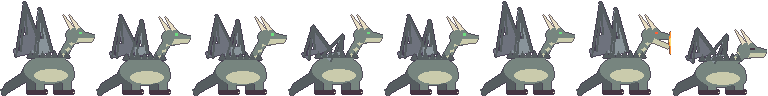
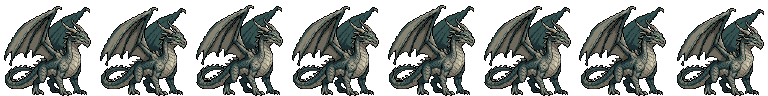
소내섬 용 · 독꼬리 와이번을 SpriteCook 새 그림으로
용은 키 90px (96칸), 와이번은 날개 폭 46px (64칸, 날갯짓 · 내려꽂기 · 내려앉기 칸).

Claude-Session: https://claude.ai/code/session_01WQSXi4yLn8qERYYsrTbZQR

diff --git a/tools/import_pixellab_monster.py b/tools/import_pixellab_monster.py
@@ -27,6 +27,11 @@ import_ai_monster.py 는 큰 AI 그림을 줄여서 픽셀로 만든다. PixelLa
 아기 도마뱀 (2026-10-05, SpriteCook generate_game_art 4장 중 사용자가 3번 = baby_02 를 고름, 족장 그림을 화풍 참고로):
   python3 tools/import_pixellab_monster.py baby_02.png --out baby_lizard --height 20 --cell 32 --baby
   그림 원본: /mnt/project-files/design/guiyeo-tall/spritecook/baby_*.png
+
+소내섬 용 · 독꼬리 와이번 (2026-10-05, SpriteCook generate_game_art 2장씩, 기본값 1번):
+  python3 tools/import_pixellab_monster.py dragon_00.png --out wild_dragon --height 90 --cell 96
+  python3 tools/import_pixellab_monster.py wyvern_00.png --out wild_wyvern --wyvern --width 46 --cell 64
+  그림 원본: /mnt/project-files/design/sonae-tall/spritecook/
 """
 import argparse
 from pathlib import Path
@@ -181,6 +186,38 @@ def build_baby(img):
     return frames
 
 
+def fold(img, cut, k):
+    """cut 줄 위 (날개) 를 k 배 높이로 눌러 cut 에 붙인다 (날갯짓 · 날개 접기)."""
+    w, h = img.size
+    top = img.crop((0, 0, w, cut))
+    nh = max(1, round(cut * k))
+    out = Image.new("RGBA", img.size, (0, 0, 0, 0))
+    out.alpha_composite(img.crop((0, cut, w, h)), (0, cut))
+    out.alpha_composite(top.resize((w, nh), Image.NEAREST), (0, cut - nh))
+    return out
+
+
+def build_wyvern(img, cell, air=8):
+    """나는 와이번 8칸 (make_act5_sheets.wyvern 과 같은 뜻):
+    0-1 맴돌기, 2-5 날기 (날개를 눌렀다 폈다 + 몸 1px 들썩), 6 내려꽂기 예고 (날개 접고 머리 숙임),
+    7 내려앉아 숨 고름 (날개 반쯤 접고 칸 바닥에 섬). 나는 칸은 바닥에서 air px 띄운다."""
+    ys = [y for y in range(img.height) for x in range(img.width) if img.getpixel((x, y))[3]]
+    cut = min(ys) + int((max(ys) - min(ys)) * 0.5)
+
+    def put(f, up, dx=0):
+        o = Image.new("RGBA", (cell, cell), (0, 0, 0, 0))
+        o.alpha_composite(f, ((cell - f.width) // 2 + dx, cell - f.height - up))
+        return o
+
+    flap = [1.0, 0.86, 0.7, 0.86]
+    frames = [put(img, air), put(img, air - 1)]
+    frames += [put(fold(img, cut, flap[i]), air - (i % 2)) for i in range(4)]
+    dive = fold(img, cut, 0.6).rotate(-22, Image.NEAREST, expand=True)
+    frames.append(put(dive.crop(dive.getbbox()), air, 1))
+    frames.append(put(fold(img, cut, 0.55), 0))
+    return frames
+
+
 def with_thrust(img, frames, path, cell, which, at):
     """원본 칸을 cell 칸 가운데 아래에 놓고, 6 · 7 칸은 SpriteCook 움직임 칸으로 바꾼다.
     움직임은 원본보다 6px 큰 칸 (가장자리 여백) 이라 창이 앞으로 길게 나간다: 그래서 칸을 키운다 (늘이지 않음).
@@ -218,18 +255,26 @@ def main():
     ap.add_argument("--thrust-frames", default="3,5", help="6 칸 (창 당김) · 7 칸 (찌른 채 방패 비킴) 에 쓸 움직임 칸 번호")
     ap.add_argument("--thrust-at", default="5,6", help="움직임 칸 속에서 원본 그림 왼쪽 위 자리 x,y")
     ap.add_argument("--baby", action="store_true", help="아기 네발 10칸 (대기 2 · 걷기 4 · 일 4)")
+    ap.add_argument("--wyvern", action="store_true", help="나는 와이번 8칸 (--width 날개 폭, --cell 칸)")
+    ap.add_argument("--width", type=int, help="이 폭으로 줄인다 (날개 편 그림일 때)")
     ap.add_argument("--flip", action="store_true")
     ap.add_argument("--preview")
     a = ap.parse_args()
     img = Image.open(a.src).convert("RGBA")
     if a.flip:
         img = img.transpose(Image.FLIP_LEFT_RIGHT)
+    if a.width:
+        bb = img.crop(img.getbbox())
+        img = shrink(bb, round(bb.height * a.width / bb.width))
     if a.height:
         img = shrink(img, a.height)
-    if a.cell and not a.thrust:
+    if a.wyvern:
+        frames = build_wyvern(img, a.cell)
+    elif a.cell and not a.thrust:
         img = place(img, a.cell)
     cx, cy, r = (float(v) for v in a.shield.split(",")) if a.shield else (0, 0, 0)
-    frames = build_baby(img) if a.baby else build(img, int(cx), int(cy), r)
+    if not a.wyvern:
+        frames = build_baby(img) if a.baby else build(img, int(cx), int(cy), r)
     if a.thrust:
         frames = with_thrust(img, frames, a.thrust, a.cell, a.thrust_frames, a.thrust_at)
     c = frames[0].size[1]

diff --git a/tools/make_act5_sheets.py b/tools/make_act5_sheets.py
@@ -537,7 +537,7 @@ out = {
     "baby_gold_dragon": sheet(frames10(lambda **k: baby_gold(**k)), 32),
 }
 # 2026-10-04: 사용자 AI 그림 (새 크기, tools/import_ai_monster.py 의 귀여리 줄) 으로 바뀐 시트는 --force 일 때만 덮어쓴다
-AI_DONE = {"wild_shield_lizard", "wild_lizard_chief", "baby_lizard"}  # 2026-10-05 PixelLab 방패 도마뱀 · SpriteCook 족장 · 아기 (tools/import_pixellab_monster.py)
+AI_DONE = {"wild_shield_lizard", "wild_lizard_chief", "baby_lizard", "wild_dragon", "wild_wyvern"}  # 2026-10-05 PixelLab 방패 도마뱀 · SpriteCook 족장 · 아기 (tools/import_pixellab_monster.py)
 for k, img in out.items():
     if k in AI_DONE and "--force" not in sys.argv:
         print(k, "건너뜀 (AI 그림이 있음, 옛 코드 그림으로 덮으려면 --force)")
